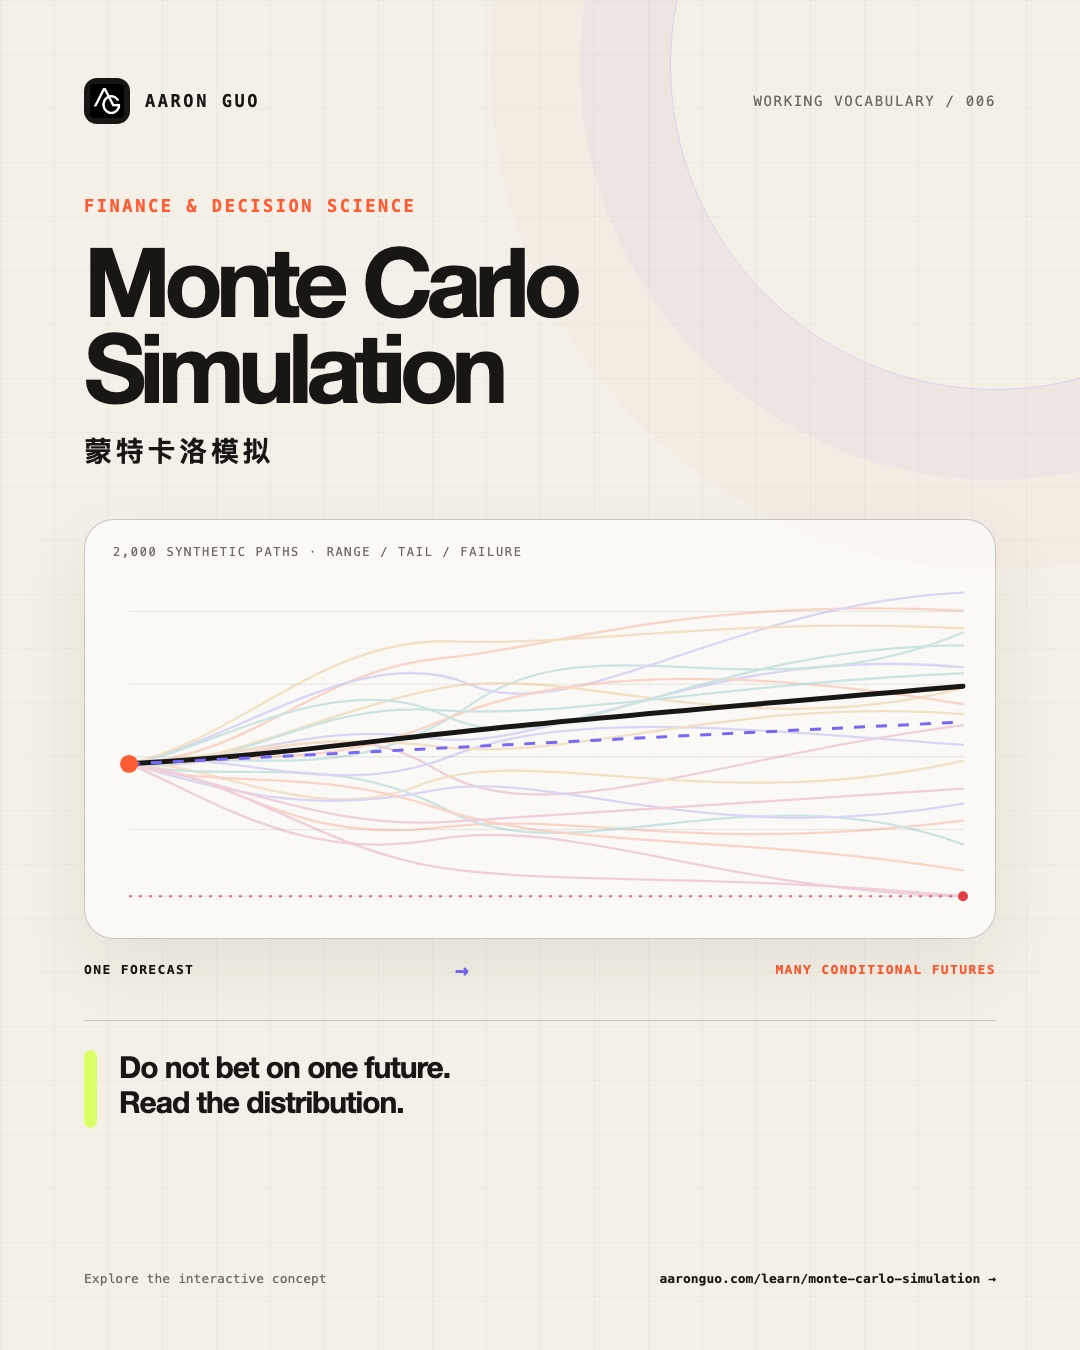
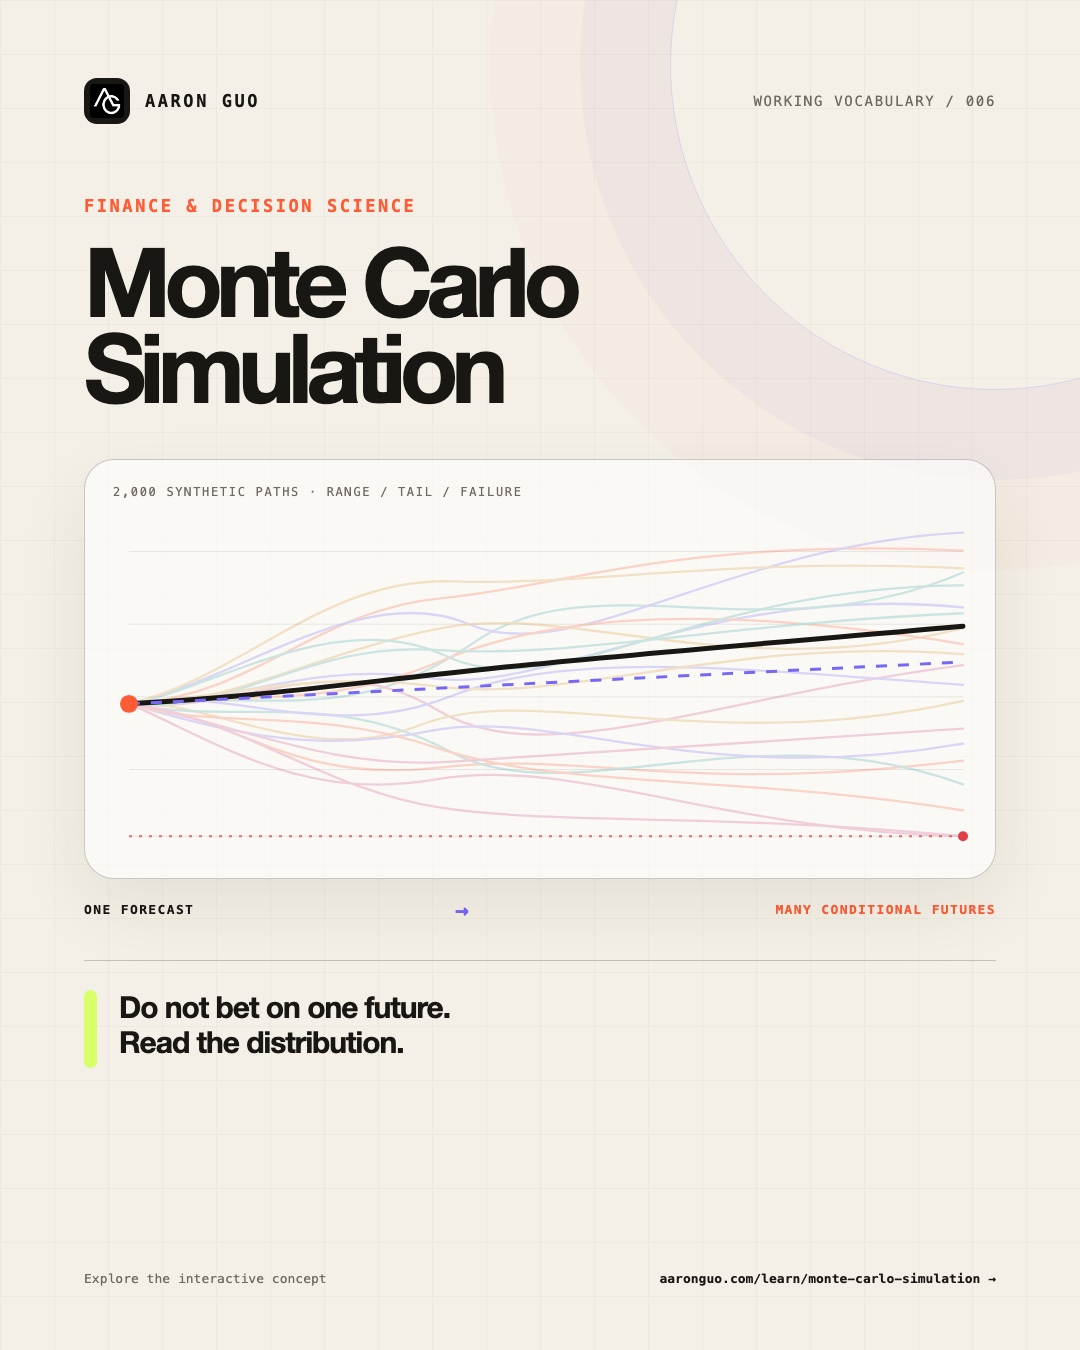
fix(learn): make Monte Carlo share assets English only

diff --git a/content/learn/zh/monte-carlo-simulation.md b/content/learn/zh/monte-carlo-simulation.md
@@ -15,9 +15,9 @@ featured: true
 translationKey: 'monte-carlo-simulation'
 interaction: 'monte-carlo-simulation'
 socialImage: '/learn-img/monte-carlo-simulation/og-1200x627.jpg'
-socialImageAlt: '许多可能路径从一个起点向外展开，位于蒙特卡洛模拟标题下方，表示一个模型产生许多条件式未来。'
+socialImageAlt: '纯英文横版图：许多可能路径从一个起点向外展开，位于 Monte Carlo Simulation 标题旁，表示一个模型产生许多条件式未来。'
 cardImage: '/learn-img/monte-carlo-simulation/card-4x5.jpg'
-cardImageAlt: '一条橙色预测线展开成许多可能路径，配文从一个预测到许多条件式未来。'
+cardImageAlt: '纯英文分享卡：一条橙色预测线展开成许多可能路径，标题为 Monte Carlo Simulation，并配有 one forecast to many conditional futures。'
 neighbors:
   - name: '情景分析'
     fullName: 'Scenario Analysis · 情景分析'